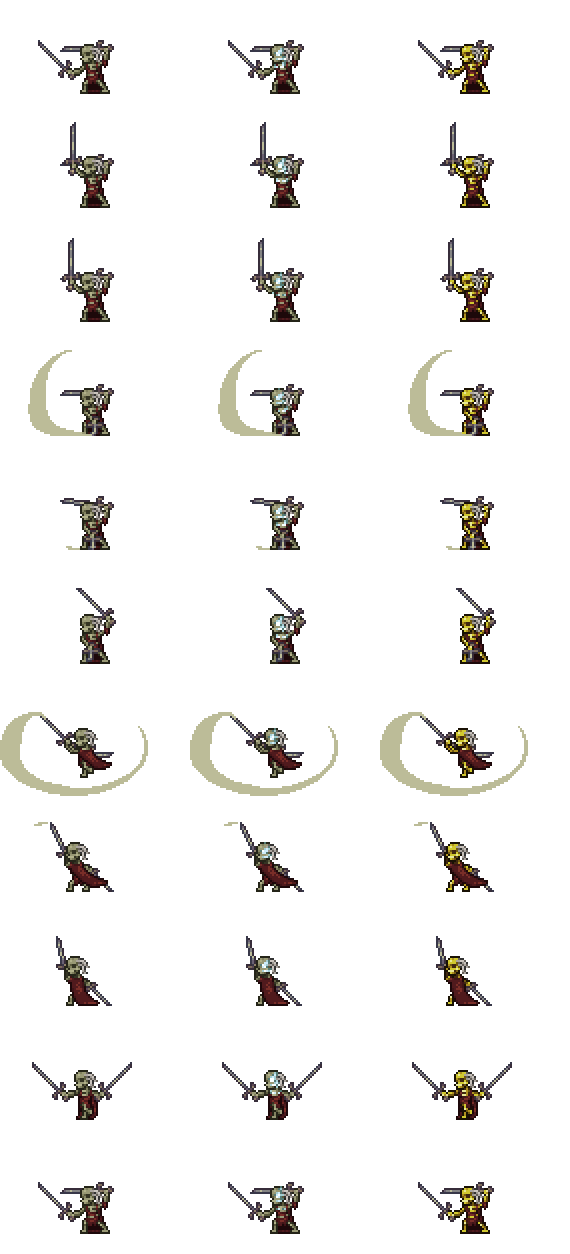
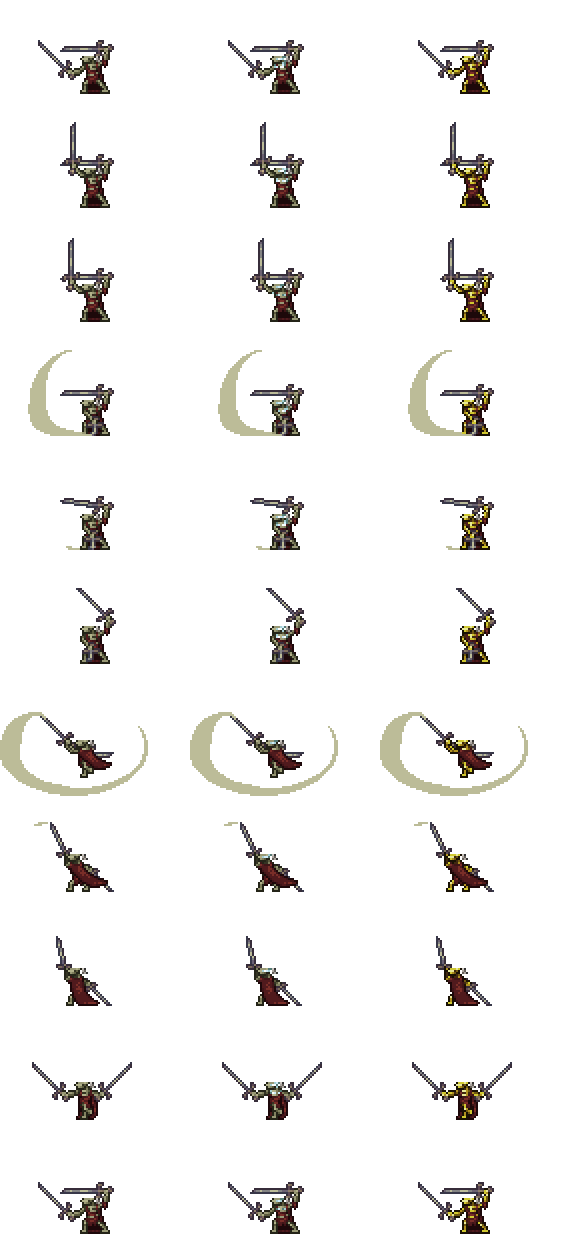
duelists have head variants + fixed a projectile source thing

diff --git a/NPCs/PreHM/SkeletonDuelist.cs b/NPCs/PreHM/SkeletonDuelist.cs
@@ -307,6 +307,7 @@ namespace Redemption.NPCs.PreHM
             Main.dust[sparkle].velocity *= 0;
             Main.dust[sparkle].noGravity = true;
         }
+        private int HeadOffsetX;
         public override void FindFrame(int frameHeight)
         {
             if (Main.netMode != NetmodeID.Server)
@@ -324,6 +325,16 @@ namespace Redemption.NPCs.PreHM
                     PersonalityState.Greedy => 2,
                     _ => 0,
                 };
+                HeadX = Personality switch
+                {
+                    PersonalityState.Greedy => 1,
+                    _ => 0,
+                };
+                if (AIState is ActionState.Attack)
+                    HeadOffset = SetHeadOffsetY();
+                else
+                    HeadOffset = SetHeadOffset(ref frameHeight);
+                HeadOffsetX = SetHeadOffsetX();
                 if (AIState is ActionState.Attack)
                 {
                     if (++NPC.frameCounter >= 5)
@@ -339,6 +350,7 @@ namespace Redemption.NPCs.PreHM
                         {
                             AniFrameY = 0;
                             NPC.frame.Y = 0;
+                            HeadOffset = 0;
 
                             RedeNPC globalNPC = NPC.Redemption();
                             if (NPC.velocity.Y == 0 && NPC.DistanceSQ(globalNPC.attacker.Center) < 100 * 100)
@@ -385,6 +397,29 @@ namespace Redemption.NPCs.PreHM
                     NPC.frame.Y = 4 * frameHeight;
                 }
             }
+        }
+        public int SetHeadOffsetY()
+        {
+            return AniFrameY switch
+            {
+                1 => 2,
+                3 => -2,
+                4 => -2,
+                10 => 2,
+                _ => 0,
+            };
+        }
+        public int SetHeadOffsetX()
+        {
+            return AniFrameY switch
+            {
+                1 => 2,
+                6 => -6,
+                7 => -14,
+                8 => -14,
+                9 => -6,
+                _ => 0,
+            };
         }
         public int GetNearestNPC(int[] WhitelistNPC = default, bool friendly = false)
         {
@@ -468,6 +503,21 @@ namespace Redemption.NPCs.PreHM
         }
         public void ChoosePersonality()
         {
+            WeightedRandom<int> head = new(Main.rand);
+            head.Add(0);
+            head.Add(1, 0.6);
+            head.Add(2, 0.6);
+            head.Add(3, 0.4);
+            head.Add(4, 0.4);
+            head.Add(5, 0.1);
+            head.Add(6, 0.1);
+            head.Add(7, 0.1);
+            head.Add(8, 0.06);
+            head.Add(9, 0.06);
+            head.Add(10, 0.06);
+            head.Add(11, 0.06);
+            HeadType = head;
+
             WeightedRandom<PersonalityState> choice = new(Main.rand);
             choice.Add(PersonalityState.Normal, 10);
             choice.Add(PersonalityState.Calm, 6);
@@ -484,7 +534,14 @@ namespace Redemption.NPCs.PreHM
             Texture2D Glow = ModContent.Request<Texture2D>(NPC.ModNPC.Texture + "_Glow").Value;
             Texture2D SlashAni = ModContent.Request<Texture2D>("Redemption/NPCs/PreHM/SkeletonDuelist_Slashes").Value;
             Texture2D SlashGlow = ModContent.Request<Texture2D>("Redemption/NPCs/PreHM/SkeletonDuelist_Slashes_Glow").Value;
+            Texture2D head = ModContent.Request<Texture2D>("Redemption/NPCs/PreHM/Skeleton_Heads2").Value;
             var effects = NPC.spriteDirection == -1 ? SpriteEffects.None : SpriteEffects.FlipHorizontally;
+
+            int HeightH = head.Height / 12;
+            int WidthH = head.Width / 2;
+            int yH = HeightH * HeadType;
+            int xH = WidthH * HeadX;
+            Rectangle rectH = new(xH, yH, WidthH, HeightH);
 
             if (AIState is ActionState.Attack)
             {
@@ -495,6 +552,8 @@ namespace Redemption.NPCs.PreHM
                 Rectangle rect = new(x, y, Width, Height);
                 Vector2 origin = new(Width / 2f, Height / 2f);
                 spriteBatch.Draw(SlashAni, NPC.Center - screenPos - new Vector2(0, 11), new Rectangle?(rect), drawColor, NPC.rotation, origin, NPC.scale, effects, 0);
+
+                spriteBatch.Draw(head, NPC.Center - screenPos, new Rectangle?(rectH), drawColor, NPC.rotation, NPC.frame.Size() / 2 + new Vector2((NPC.spriteDirection == 1 ? -48 : -38) + (HeadOffsetX * NPC.spriteDirection), -1 + HeadOffset), NPC.scale, effects, 0);
 
                 if (HasEyes)
                     spriteBatch.Draw(SlashGlow, NPC.Center - screenPos - new Vector2(0, 11), new Rectangle?(rect), Color.White, NPC.rotation, origin, NPC.scale, effects, 0);
@@ -511,6 +570,8 @@ namespace Redemption.NPCs.PreHM
                     }
                 }
                 spriteBatch.Draw(TextureAssets.Npc[NPC.type].Value, NPC.Center - screenPos, NPC.frame, drawColor, NPC.rotation, NPC.frame.Size() / 2, NPC.scale, effects, 0);
+
+                spriteBatch.Draw(head, NPC.Center - screenPos, new Rectangle?(rectH), drawColor, NPC.rotation, NPC.frame.Size() / 2 + new Vector2((NPC.spriteDirection == 1 ? -48 : -38) + (HeadOffsetX * NPC.spriteDirection), -2 + HeadOffset), NPC.scale, effects, 0);
 
                 if (HasEyes)
                     spriteBatch.Draw(Glow, NPC.Center - screenPos, NPC.frame, Color.White, NPC.rotation, NPC.frame.Size() / 2, NPC.scale, effects, 0);

diff --git a/RedeDetours.cs b/RedeDetours.cs
@@ -72,7 +72,10 @@ namespace Redemption
             else if (spawnSource is EntitySource_Parent)
             {
                 EntitySource_Parent sourceParent = spawnSource as EntitySource_Parent;
-                attacker = sourceParent.Entity;
+                if (sourceParent.Entity is Projectile)
+                    attacker = Main.player[(sourceParent.Entity as Projectile).owner];
+                else
+                    attacker = sourceParent.Entity;
             }
             if (attacker != null)
             {
